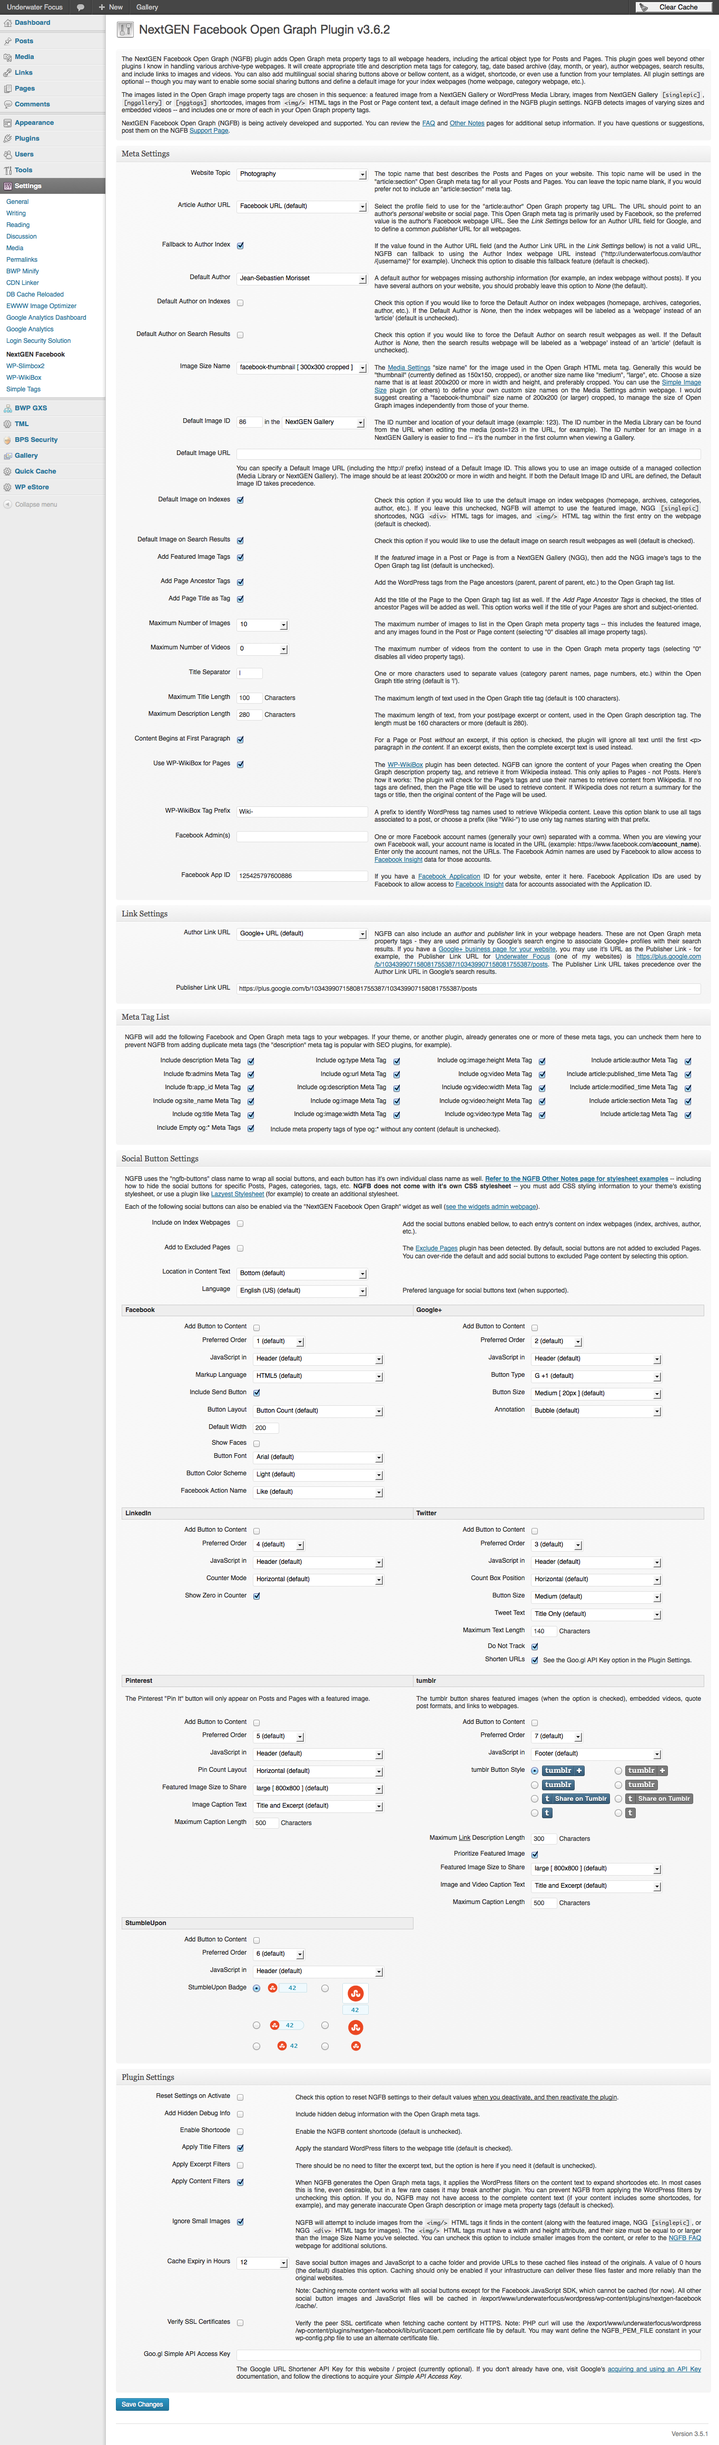
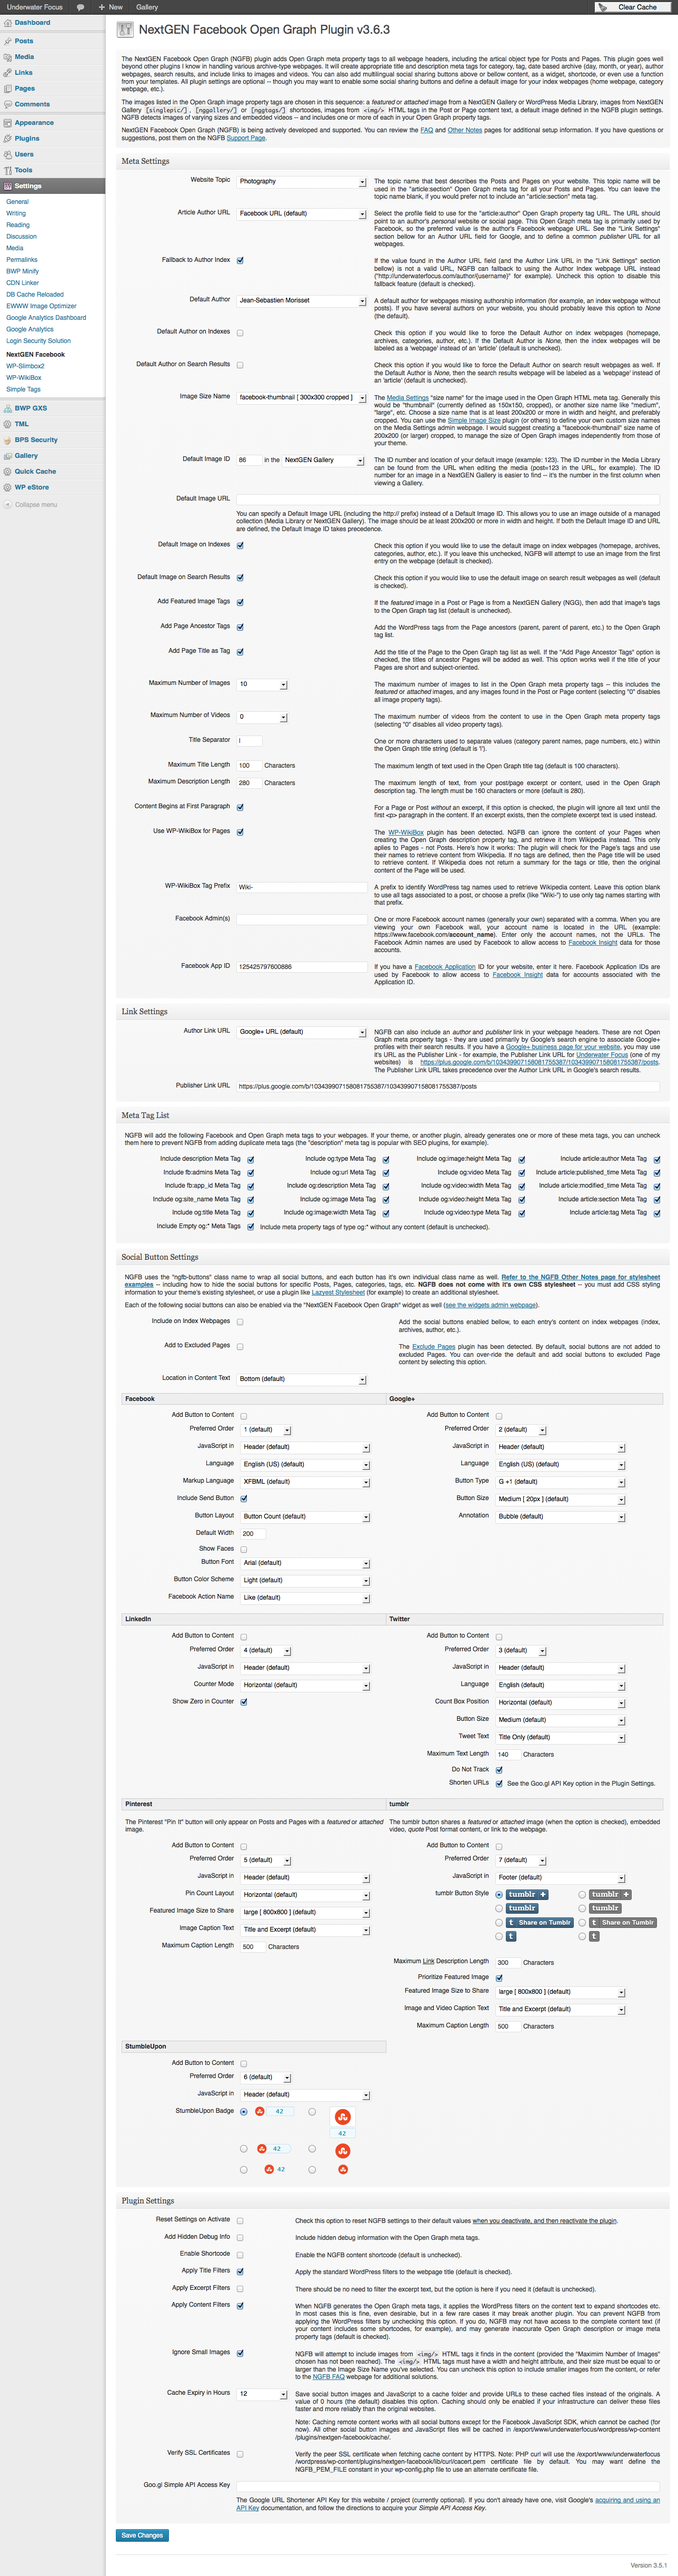
text updates
git-svn-id: https://plugins.svn.wordpress.org/nextgen-facebook/trunk@691813 b8457f37-d9ea-0310-8a92-e5e31aec5664

diff --git a/nextgen-facebook.php b/nextgen-facebook.php
@@ -28,7 +28,7 @@ if ( ! class_exists( 'ngfbPlugin' ) ) {
 	class ngfbPlugin {
 
 		var $version = '3.6.3';		// for display purposes
-		var $opts_version = '16';	// increment when adding/removing $default_options
+		var $opts_version = '17';	// increment when adding/removing $default_options
 		var $is_active = array();	// assoc array for function/class/method checks
 		var $debug_msgs = array();
 		var $admin_msgs_inf = array();
@@ -386,10 +386,7 @@ if ( ! class_exists( 'ngfbPlugin' ) ) {
 					$this->options = $this->upgrade_options( $this->options );
 			} else {
 				echo $this->get_debug( 'get_option(\'' . NGFB_OPTIONS_NAME . '\')', print_r( get_option( NGFB_OPTIONS_NAME ), true ) );
-				$this->admin_msgs_err[] = 'WordPress returned an error when reading the \'' . NGFB_OPTIONS_NAME . '\' array 
-					from the database.<br/>All plugin settings have been returned to their default values, though nothing
-					has been saved yet. Please visit the <a href="' . $this->get_options_url() . '">' . NGFB_FULLNAME . ' settings 
-					page</a> to review and save these new settings</a>.';
+				$this->admin_msgs_err[] = 'WordPress returned an error when reading the \'' . NGFB_OPTIONS_NAME . '\' array from the database.<br/>All plugin settings have been returned to their default values, though nothing has been saved yet. Please visit the <a href="' . $this->get_options_url() . '">' . NGFB_FULLNAME . ' settings page</a> to review and save these new settings</a>.';
 				$this->options = $this->default_options;
 			}
 
@@ -409,10 +406,7 @@ if ( ! class_exists( 'ngfbPlugin' ) ) {
 			// make sure we have something to work with
 			if ( ! empty( $opts ) && is_array( $opts ) ) {
 
-				$this->admin_msgs_inf[] = 'Option settings read from the database have been updated in memory.
-					To avoid these extra sanitation checks, and maximize plugin performance, please visit 
-					the ' . NGFB_FULLNAME . ' settings page to <a href="' .  $this->get_options_url() . 
-					'">review and save the updated setting values</a>.';
+				$this->admin_msgs_inf[] = 'Option settings from the database have been read and updated in memory. These updates have NOT been saved back to the database. <a href="' . $this->get_options_url() . '">Review and save the new settings</a> to disable this update notice.';
 	
 				// move old option values to new option names
 				foreach ( array(
@@ -425,8 +419,7 @@ if ( ! class_exists( 'ngfbPlugin' ) ) {
 					'buttons_lang' => 'gp_lang',
 				) as $old => $new )
 					if ( empty( $opts[$new] ) && ! empty( $opts[$old] ) ) {
-						$this->admin_msgs_inf[] = 'Renamed \'' . $old . '\' option to \'' . 
-							$new . '\' with a value of \'' . $opts[$old] . '\'.';
+						$this->admin_msgs_inf[] = 'Renamed \'' . $old . '\' option to \'' . $new . '\' with a value of \'' . $opts[$old] . '\'.';
 						$opts[$new] = $opts[$old];
 					}
 				unset ( $old, $new );
@@ -441,14 +434,16 @@ if ( ! class_exists( 'ngfbPlugin' ) ) {
 				// add missing options and set to defaults
 				foreach ( $this->default_options as $key => $def_val ) {
 					if ( ! empty( $key ) && ! array_key_exists( $key, $opts ) ) {
-						$this->admin_msgs_inf[] = 'Adding missing \'' . $key . '\' option 
-							with the default value of \'' . $def_val . '\'.';
+						$this->admin_msgs_inf[] = 'Adding missing \'' . $key . '\' option with the default value of \'' . $def_val . '\'.';
 						$opts[$key] = $def_val;
 					}
 				}
 
 				// sanitize and verify the options - just in case
 				$opts = $this->sanitize_options( $opts );
+
+				if ( ! defined( 'NGFB_DONATED' ) || ! NGFB_DONATED )
+					$this->admin_msgs_inf[] = '<b>' . NGFB_FULLNAME . ' (NGFB) has taken many, many months to develop and fine-tune. Please say thank you by <a href="' . $this->get_options_url() . '">donating</a> and <a href="http://wordpress.org/support/view/plugin-reviews/nextgen-facebook">rating it on wordpress.org</a>.</b>';
 			}
 			return $opts;
 		}
@@ -1660,7 +1655,7 @@ if ( ! class_exists( 'ngfbPlugin' ) ) {
 				echo '<div id="message" class="updated fade">';
 
 			foreach ( $this->admin_msgs_inf as $msg )
-				echo '<p>', $prefix, ' Notice : ', $msg, '</p>';
+				echo '<p style="padding:0;margin:5px;">', $prefix, ' Notice : ', $msg, '</p>';
 
 			if ( ! empty( $this->admin_msgs_inf ) ) 
 				echo '</div>';

diff --git a/lib/admin.php b/lib/admin.php
@@ -483,7 +483,7 @@ if ( ! class_exists( 'ngfbAdmin' ) ) {
 			<tr>
 				<th>Maximum Number of Images</th>
 				<td><?php $this->select( 'og_img_max', range( 0, NGFB_MAX_IMG_OG ), 'short' ); ?></td>
-				<td><p>The maximum number of images to list in the Open Graph meta property tags -- this includes the *featured* or *attached* images, and any images found in the Post or Page content (selecting "0" disables all image property tags).</p></td>
+				<td><p>The maximum number of images to list in the Open Graph meta property tags -- this includes the <em>featured</em> or <em>attached</em> images, and any images found in the Post or Page content (selecting "0" disables all image property tags).</p></td>
 			</tr>
 			<tr>
 				<th>Maximum Number of Videos</th>
@@ -850,9 +850,9 @@ if ( ! class_exists( 'ngfbAdmin' ) ) {
 			<tr><td style="height:5px;"></td></tr>
 			<tr>
 				<!-- Pinterest -->
-				<td colspan="2"><p>The Pinterest "Pin It" button will only appear on Posts and Pages with a *featured* or *attached* image.</p></td>
+				<td colspan="2"><p>The Pinterest "Pin It" button will only appear on Posts and Pages with a <em>featured</em> or <em>attached</em> image.</p></td>
 				<!-- tumblr -->
-				<td colspan="2"><p>The tumblr button shares a *featured* or *attached* image (when the option is checked), embedded video, <em>quote</em> Post format content, or link to the webpage.</p></td>
+				<td colspan="2"><p>The tumblr button shares a <em>featured</em> or <em>attached</em> image (when the option is checked), embedded video, <em>quote</em> Post format content, or link to the webpage.</p></td>
 			</tr>
 			<tr>
 				<!-- Pinterest -->
